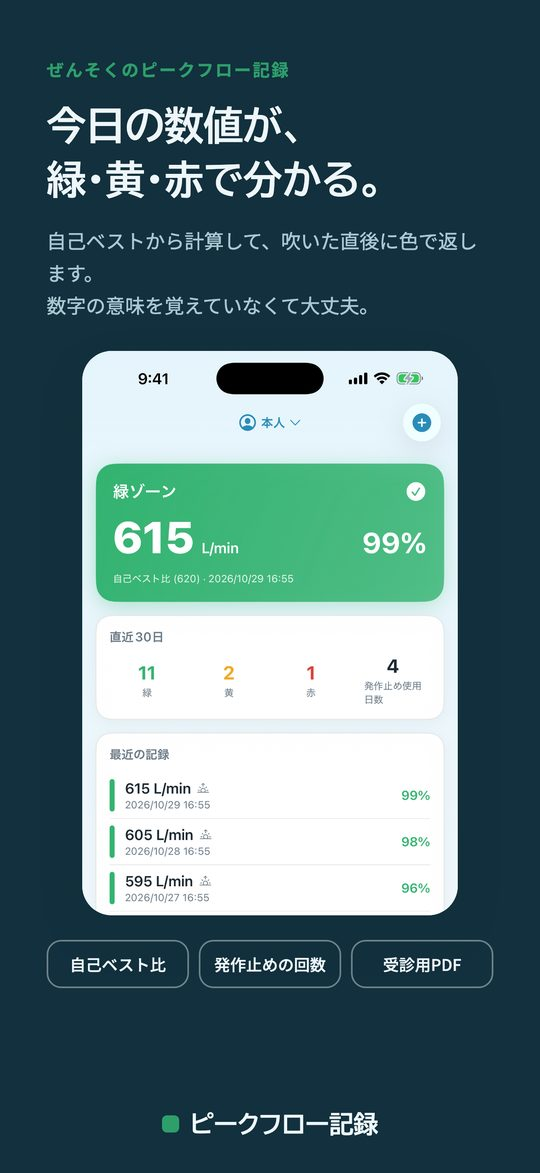
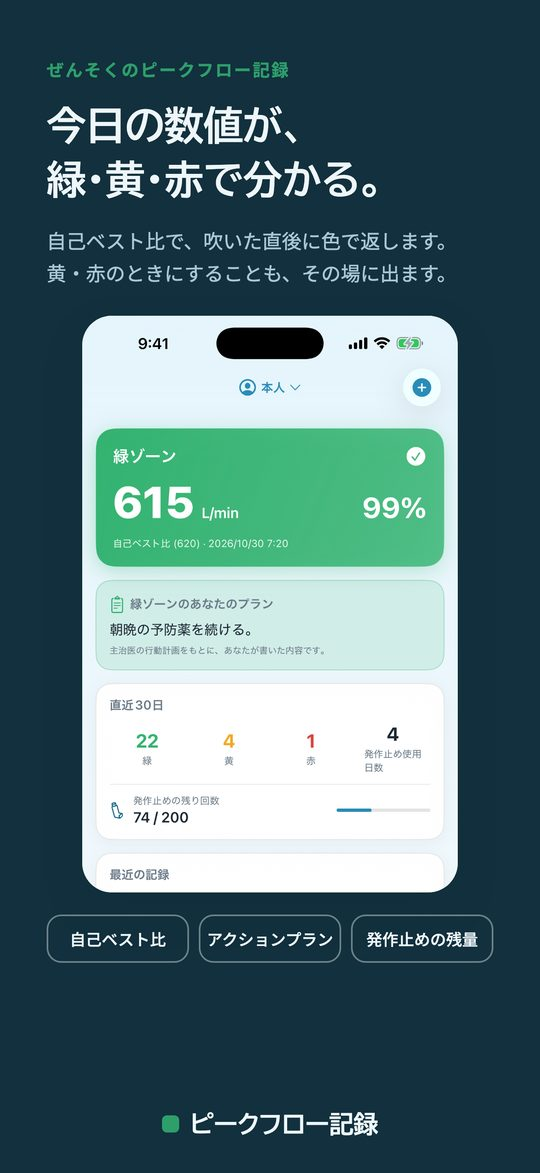
lp: Peak Flow Log 1.1.0 の機能追加を反映／privacy: Apple ヘルスケア（書き込みのみ）の項を追加

Changed region(s): [[0.0593, 0.1841, 0.9185, 0.8286], [0.6222, 0.6752, 0.6815, 0.7059], [0.563, 0.6138, 0.5926, 0.6752]]

diff --git a/peakflowlog/index.html b/peakflowlog/index.html
@@ -103,7 +103,9 @@ footer .notice{font-size:11.5px;margin-top:10px}
 <section><div class="wrap">
   <h2>できること</h2>
   <div class="cards">
-
+<div class="card"><h3>あなたのアクションプラン</h3><p>主治医に言われたゾーンごとの対応を書いておくと、そのゾーンの記録時に表示</p></div>
+<div class="card"><h3>発作止めの残り回数</h3><p>記録した吸入回数から残量を自動で数え、少なくなる前にお知らせ</p></div>
+<div class="card"><h3>ホーム画面ウィジェット</h3><p>最新のゾーンと今日の記録の有無</p></div>
   </div>
 </div></section>
 
@@ -124,23 +126,31 @@ footer .notice{font-size:11.5px;margin-top:10px}
   <h2>詳しく</h2>
   <div class="detail">
 <p>Peak Flow Log は、毎日のピークフロー測定を「自分にも主治医にも分かる形」に変えるシンプルな記録アプリです。</p>
-<p>お手持ちのピークフローメーターで吹いて、数値を入力するだけ。自己ベストに対する割合から、今の状態をゾーンで即表示します。</p>
+<p>お手持ちのピークフローメーターで吹いて、数値を入力するだけ（3回分を入れれば最高値を自動で採用）。自己ベストに対する割合から、今の状態をゾーンで即表示します。</p>
 <ul>
 <li>自分の数値をもとに、緑・黄・赤をひと目で表示</li>
 <li>発作止め（リリーバー）の吸入回数・症状・誘因を1タップで記録</li>
+<li>朝と夜のリマインダー。その時間帯の記録がある日は通知しません</li>
+<li>ピークフロー値と発作止めの吸入回数をヘルスケアに書き込み</li>
 <li>色分けされたゾーンバンドで、推移がはっきり見える</li>
 <li>本人だけでなく家族も登録でき、お子さんの記録も追える</li>
 <li>受診時に見せられる、見やすいPDFレポートを作成</li>
 </ul>
+<p>Pro（買い切り・サブスクなし）:</p>
+<ul>
+<li>受診用PDFに朝夕の変動率とアクションプランを掲載</li>
+<li>あなたのアクションプラン：主治医に言われたゾーンごとの対応を書いておくと、そのゾーンの記録時に表示</li>
+<li>発作止めの残り回数：記録した吸入回数から残量を自動で数え、少なくなる前にお知らせ</li>
+<li>ホーム画面ウィジェット：最新のゾーンと今日の記録の有無</li>
+<li>プロフィール無制限・90日/全期間の推移・誘因の傾向分析・ゾーンしきい値のカスタム</li>
+</ul>
 <p>安心して使える設計:</p>
 <ul>
 <li>完全オフラインで動作。アカウント不要・サインイン不要。</li>
-<li>データは端末内だけに保存。どこにもアップロードしません。</li>
+<li>データは端末内だけに保存。どこにもアップロードしません。ヘルスケアは書き込みのみで、読み取りはしません。</li>
 <li>バックアップの書き出し・読み込みで、機種変更でも履歴を失いません。</li>
-<li>Proの解放は買い切り。サブスクではありません。</li>
 </ul>
-<p>記録とゾーン表示は無料。Proで受診用PDF・プロフィール無制限・90日/全期間の推移・ゾーンしきい値のカスタムが使えます。</p>
-<p>Peak Flow Log は、お手持ちのメーターで測った数値を記録・可視化するツールです。診断・治療・医療アドバイスは行わず、医療機器ではありません。ゾーンは、あなたや主治医が設定した自己ベスト比に基づきます。主治医のアクションプランに従い、緊急時は医療機関を受診してください。</p>
+<p>Peak Flow Log は、お手持ちのメーターで測った数値を記録・可視化するツールです。診断・治療・医療アドバイスは行わず、医療機器ではありません。ゾーンは、あなたや主治医が設定した自己ベスト比に基づき、アクションプランはご自身で入力した文章です。主治医のアクションプランに従い、緊急時は医療機関を受診してください。</p>
   </div>
 </div></section>
 
@@ -158,7 +168,7 @@ footer .notice{font-size:11.5px;margin-top:10px}
     <p>無料でダウンロード。追加機能は買い切り（¥600）で解放できます。</p>
     <a class="btn" href="https://apps.apple.com/jp/app/id6794622470?ct=lp" rel="noopener">App Store からダウンロード</a>
   </div>
-  <div class="kw"><span>pef</span> <span>ぜんそく</span> <span>喘息発作</span> <span>呼吸</span> <span>吸入器</span> <span>リリーバー</span> <span>肺</span> <span>小児喘息</span> <span>ピークフローメーター</span> <span>通院</span> <span>記録</span> <span>健康管理</span></div>
+  <div class="kw"><span>pef</span> <span>ぜんそく</span> <span>喘息発作</span> <span>呼吸</span> <span>吸入器</span> <span>リリーバー</span> <span>肺</span> <span>小児喘息</span> <span>ピークフローメーター</span> <span>通院</span> <span>ヘルスケア</span> <span>リマインダー</span></div>
 </div></section>
 
 <footer><div class="wrap">

diff --git a/peakflowlog/privacy.html b/peakflowlog/privacy.html
@@ -16,7 +16,7 @@
 </head>
 <body>
 <h1>プライバシーポリシー</h1>
-<p class="updated">アプリ名：Peak Flow Log　／　最終更新日：2026年7月25日</p>
+<p class="updated">アプリ名：Peak Flow Log　／　最終更新日：2026年10月30日</p>
 
 <p>Peak Flow Log（以下「本アプリ」）は、利用者のプライバシーを尊重して設計されています。本アプリは、<strong>個人情報を収集せず、外部に送信しない</strong>ことを基本方針としています。本ポリシーは、本アプリの情報の取り扱いについて説明します。</p>
 
@@ -26,25 +26,28 @@
 <h2>2. データの保存場所</h2>
 <p>利用者が入力・記録した内容、設定などの利用データは、<strong>すべて利用者の端末内にのみ保存</strong>されます。これらのデータが開発者や第三者のサーバーに送信・保存されることはありません。アプリを削除すると、これらのデータも端末から削除されます。</p>
 
-<h2>3. 位置情報</h2>
+<h2>3. Apple ヘルスケア（HealthKit）</h2>
+<p>本アプリは、利用者が設定でオンにした場合に限り、記録したピークフロー値（最大呼気流量）と発作止め吸入器の使用回数を、利用者の端末の Apple ヘルスケアに<strong>書き込みます</strong>。ヘルスケアからデータを<strong>読み取ることはありません</strong>。書き込みは利用者が選んだ1つのプロフィールについてのみ行われ、いつでも設定からオフにできます。ヘルスケアのデータは Apple の管理下で端末内に保存され、開発者や第三者に送信されることはありません。また、ヘルスケアのデータを広告・マーケティング・データブローカーへの提供などの目的に使用することはありません。</p>
+
+<h2>4. 位置情報</h2>
 <p>本アプリは、<strong>位置情報を取得しません</strong>。</p>
 
-<h2>4. 通知</h2>
+<h2>5. 通知</h2>
 <p>本アプリの通知はすべて端末内で生成されるローカル通知です。通知の許可は端末の設定からいつでも変更できます。</p>
 
-<h2>5. アプリ内課金</h2>
+<h2>6. アプリ内課金</h2>
 <p>本アプリの有料機能の購入手続きは、Apple の App内課金（StoreKit）を通じて行われます。決済は Apple が処理し、<strong>開発者がクレジットカード番号などの支払い情報を受け取ることはありません</strong>。購入の取り扱いについては Apple のプライバシーポリシーをご確認ください。</p>
 
-<h2>6. 第三者への提供・解析・広告</h2>
+<h2>7. 第三者への提供・解析・広告</h2>
 <p>本アプリは、第三者の解析ツール（アクセス解析等）、広告SDK、トラッキング技術を<strong>一切使用していません</strong>。したがって、利用者の行動データが第三者に共有されることはありません。</p>
 
-<h2>7. お子様の利用について</h2>
+<h2>8. お子様の利用について</h2>
 <p>本アプリの年齢区分は App Store の表示に従います。</p>
 
-<h2>8. 本ポリシーの変更</h2>
+<h2>9. 本ポリシーの変更</h2>
 <p>本ポリシーは、機能追加や法令の変更に応じて改定されることがあります。重要な変更がある場合は、本ページの更新日を改めてお知らせします。</p>
 
-<h2>9. お問い合わせ</h2>
+<h2>10. お問い合わせ</h2>
 <p>本アプリおよび本ポリシーに関するお問い合わせは、以下までご連絡ください。<br>
 メール：<code>suportapps44@gmail.com</code></p>
 
